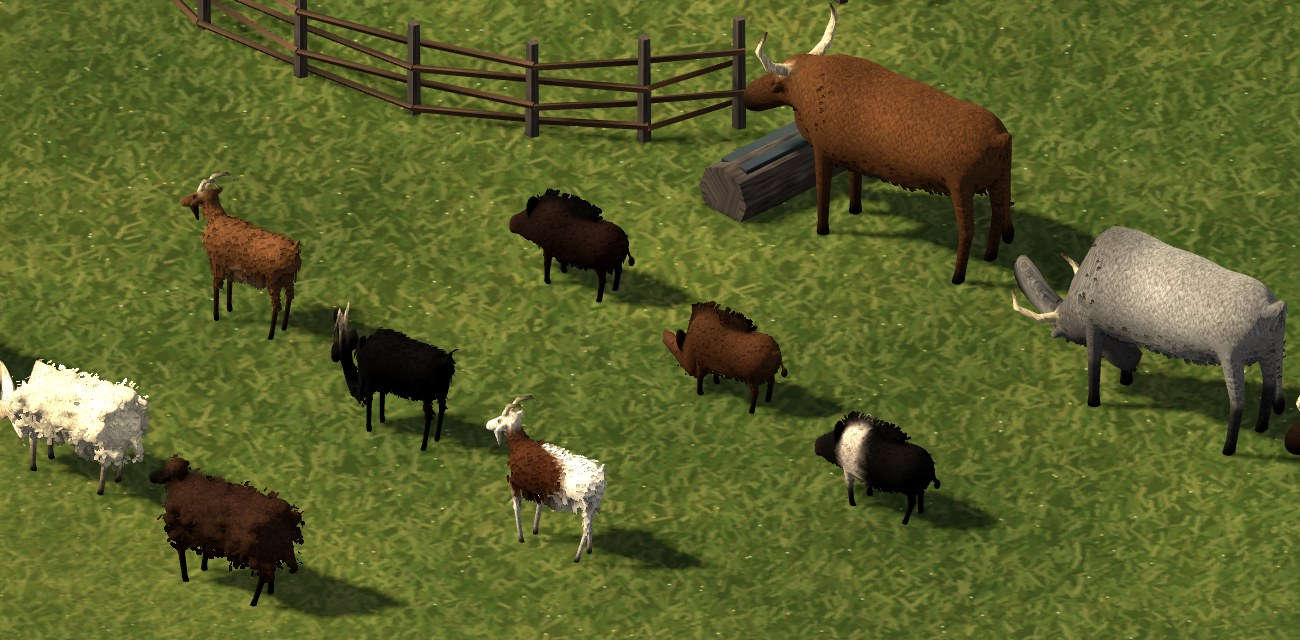
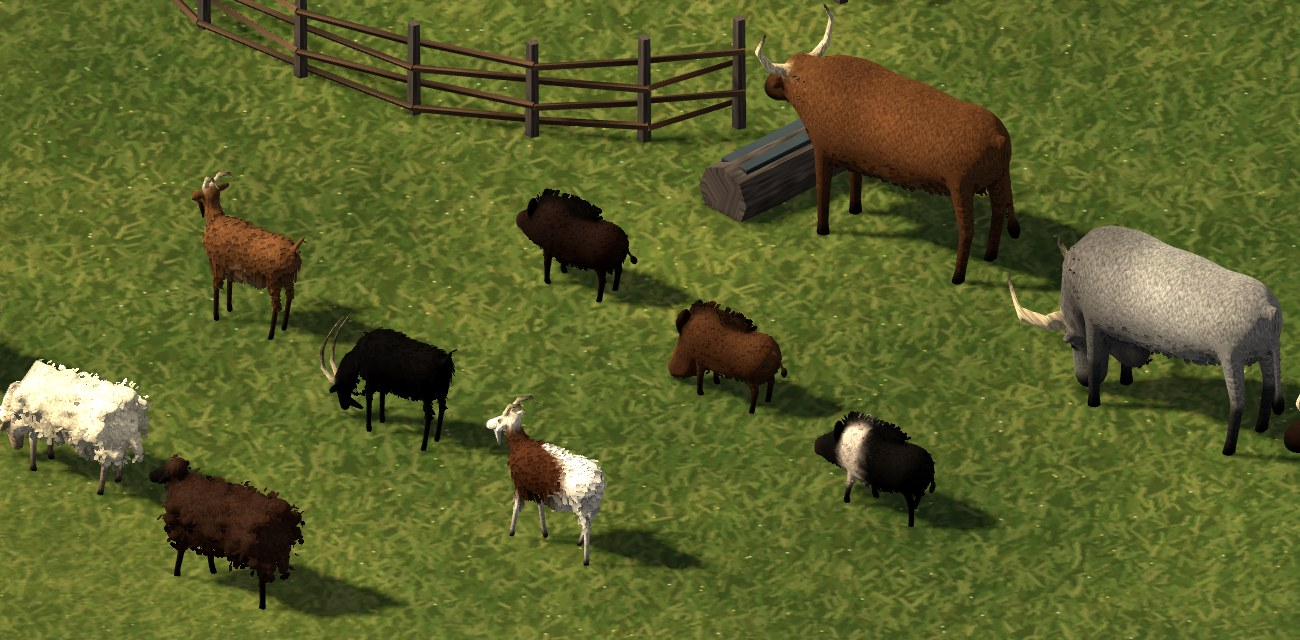
Animali: corretto il peso delle parti capovolto (la "proboscide")
L'esportazione glTF capovolge la v delle UV: lo shader leggeva il peso
delle parti al contrario, e la testa si piegava dal muso e le zampe
dall'anca. Brucatura ritarata (collo fino a 66°, testa a 85°).

Claude-Session: https://claude.ai/code/session_01N4eDGoytuDJpy13k2rnrNV

diff --git a/strumenti/blender/animali.py b/strumenti/blender/animali.py
@@ -598,8 +598,8 @@ def colora(ob, col, angoli_vert):
 
 def postura_bruca(sp):
     """Brucare (26/11/2026, dopo il bue grigio che sembrava avere la proboscide): il collo si piega
-    dall'attaccatura sulle spalle (`perno`, al massimo di 50° circa) e la testa dalla nuca (`giunto`) finché scende quasi verticale (75° sotto
-    l'orizzonte) e il muso arriva all'erba, a 8 cm da terra. Si cerca il piegamento del collo che
+    dall'attaccatura sulle spalle (`perno`, al massimo di 66° circa) e la testa dalla nuca (`giunto`) finché scende quasi verticale (85° sotto
+    l'orizzonte, il muso vicino alle zampe davanti: da chino il bue sembrava avere la proboscide) e il muso arriva all'erba, a 8 cm da terra. Si cerca il piegamento del collo che
     basta; se non basta, il resto lo fa un piccolo abbassamento (`abbassa_bruca`). Per il maiale la
     testa è già bassa: grufola appena (sp.bruca piccolo). Restituisce i dati per lo shader, nelle
     coordinate di Godot (x, z di Blender in alto, -y di Blender)."""
@@ -618,9 +618,9 @@ def postura_bruca(sp):
     else:
         mt = punta - giunto
         fi0 = math.atan2(mt[2], mt[1])
-        totale = fi0 + math.radians(75.0)
+        totale = fi0 + math.radians(85.0)
         a1 = 0.0
-        for k in range(0, 86):  # il collo al massimo a 50° circa: oltre sembra spezzato
+        for k in range(0, 116):  # il collo al massimo a 66° circa: il muso resta vicino alle zampe davanti
             a1 = k / 100.0
             j = giu(giunto, perno, a1)
             m = giu(giu(punta, perno, a1), j, totale - a1)

diff --git a/docs/asset.md b/docs/asset.md
@@ -109,7 +109,7 @@ Script `strumenti/blender/animali.py` → `gioco/asset/villaggio/animale_<specie
 - **Corpo unico:** un campo di distanza fatto di ellissoidi e coni arrotondati (tronco, collo, testa, zampe in tre tratti con ginocchio e garretto, corna, orecchie, coda) che si fondono morbidamente; la superficie si estrae con marching cubes e si semplifica. Niente giunture né facce piatte.
 - **Pelo:** grana `pelo.png` (ciocche fitte) o `lana.png` (riccioli) con UV che fanno scorrere il pelo dal dorso alla pancia e lungo le zampe; **carte di pelo** con il ritaglio, come le foglie delle chiome (`ciocche.png`, quattro ciocche affiancate; per la pecora `ciocche_lana.png`, bioccoli arricciati), piantate sul corpo nel verso del pelo, più lunghe sotto la pancia (frangia), corte su collo e fronte, cresta dritta sul dorso del maiale; muso, zoccoli e corna restano nudi. Le carte hanno le normali del corpo e il suo colore.
 - **Manti** nei colori dei vertici (per l'occlusione cotta), tre per specie: pecora bianca a muso scuro, bianca, bruna; capra fulva, nera, pezzata; maiale bruno scuro, fulvo, cinghiato; bue fromentino, grigio con spalle scure, bruno. Nel gioco il primo manto è il più comune (50%, 30%, 20%).
-- **Parti per l'animazione** nella seconda UV (corpo, collo e testa, quattro zampe, orecchie, coda, con il peso lungo la parte); in `animali.json` perno del collo, passo, spalla e quanto si abbassa la testa per brucare (poco il maiale, che ha la testa già bassa: prima sembrava una proboscide).
+- **Parti per l'animazione** nella seconda UV (attenzione: l'esportazione glTF capovolge la v, lo shader usa `1 − v`) (corpo, collo e testa, quattro zampe, orecchie, coda, con il peso lungo la parte); in `animali.json` perno del collo, passo, spalla e quanto si abbassa la testa per brucare (poco il maiale, che ha la testa già bassa: prima sembrava una proboscide).
 - **Shader:** `animali.gdshader` (corpo) e `animali_ciocche.gdshader` (carte, con il ritaglio e le normali tenute verso l'esterno anche dal retro), con le animazioni in comune in `animali_comune.gdshaderinc`. Materiali da `Asset.materiale_animale`, mesh da `Asset.mesh_animale`.
 - **Prestazioni:** con la MultiMesh nel renderer Compatibilità servono anche i colori per istanza (bianchi): con i soli dati personalizzati gli animali uscivano neri. Da misurare sui PC di Fede con 400 animali vicini.
 

diff --git a/docs/diario.md b/docs/diario.md
@@ -2,6 +2,15 @@
 
 Voci più recenti in cima.
 
+## 26/11/2026 (primo pomeriggio)
+**Fatto**
+- **La "proboscide" era un errore dello shader** (Fede: "il bue ha ancora la proboscide"): l'esportazione glTF capovolge la v delle UV, e il peso delle parti (scritto nella seconda UV) arrivava rovesciato. Così la testa si piegava dal muso invece che dalla nuca (il muso restava fermo e la testa si stirava) e le zampe si muovevano dall'anca invece che dallo zoccolo. Corretto in `animali_comune.gdshaderinc` (`w = 1 − UV2.y`). Ora pecora, capra, maiale e bue brucano con la testa giù vicino alle zampe davanti.
+- Brucatura ritarata: collo piegato fino a 66° circa, testa a 85° sotto l'orizzonte. Foto `docs/immagini/bue-26-11.jpg` e `animali-pelo-26-11.jpg` rifatte. Verifiche degli asset e della partita superate.
+
+**Prossimo passo**
+- Fede: riguardare animali e brucatura nel gioco; provare i tutorial.
+- Claude: voci 4 e 5, con riepilogo prima.
+
 ## 26/11/2026 (mezzogiorno)
 **Fatto**
 - **Tutorial alle tappe** (decisione di Fede): nuovo `script/tutorial.gd` con sedici schede (fondare; zona agricola, campo, sentiero, legnaia, capanno, posta, fonti di cibo dopo la fondazione; granaio e raccolto a 60; luogo sacro e pascolo a 100; stranieri, villaggio affollato e bosco sacro a 150; casali a 250). Decisioni di tipo "tutorial" in `SimVillaggio` (`tutorial()`, `salta_tutorial()`, `tutorial_attivi`), riquadro `Hud.mostra_tutorial`: testa con la tappa e la pagina, titolo, due o tre righe, "Cosa fa…?" che apre la spiegazione, "Salta i tutorial" e Avanti/Continua. Saltati, diventano notifiche grigie per il resto della partita. Le foto di controllo partono senza tutorial. Foto `docs/immagini/tutorial-26-11.jpg`; nuovo `test/foto_tutorial.gd`.
